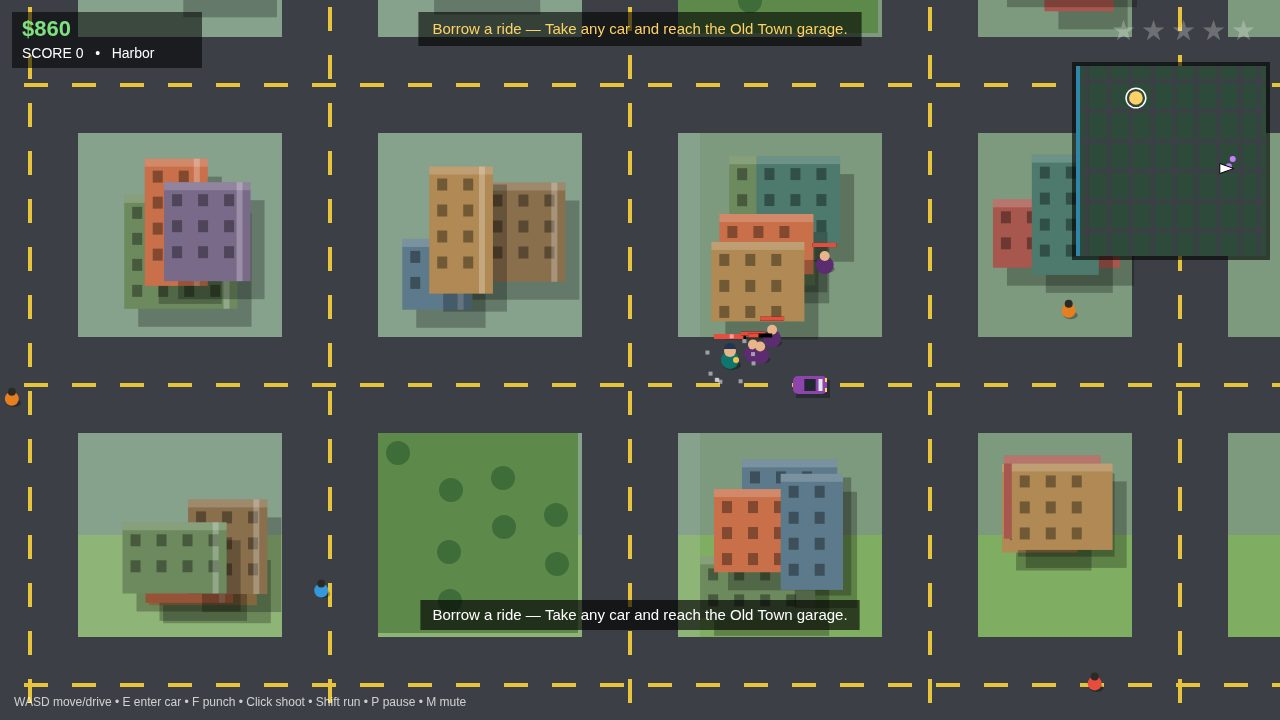
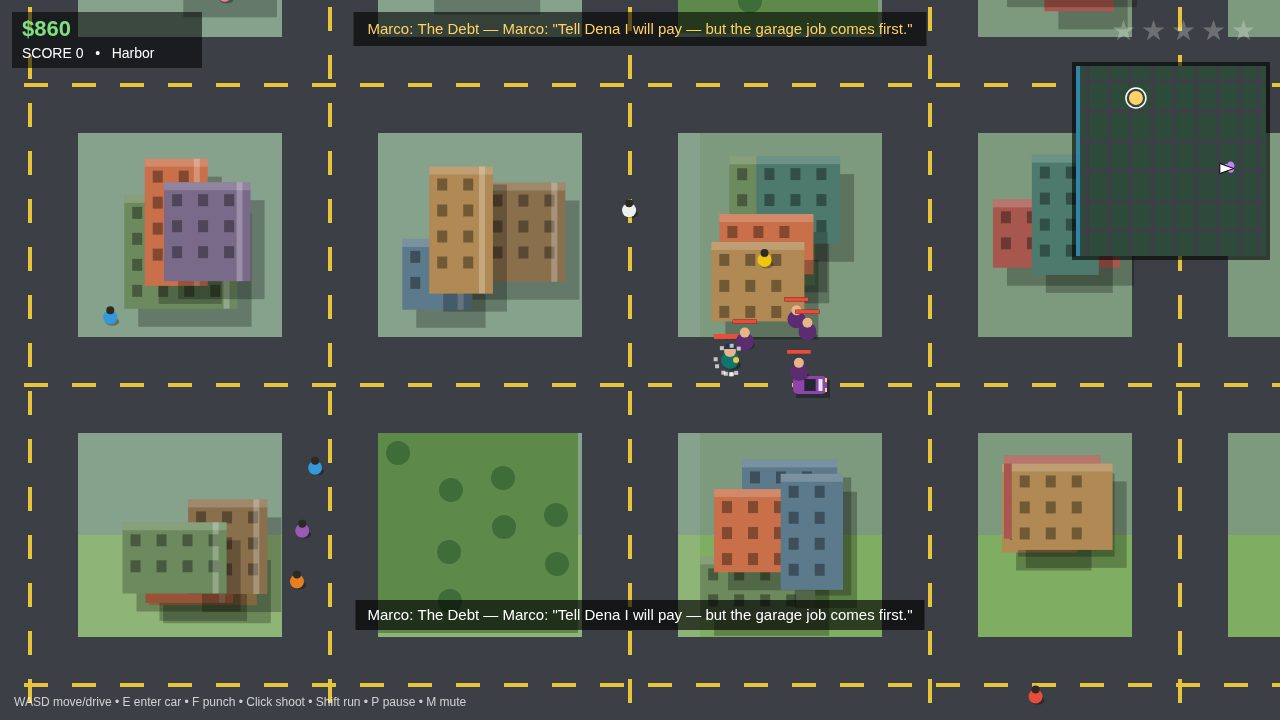
V2 story-mission: default variant story — Rosa/Marco/Dena three-act chain, branching dialog, story cover

diff --git a/game/src/config.js b/game/src/config.js
@@ -6,9 +6,10 @@ export const WORLD_H = 1900;
 export const ROAD = 96; // road width in world pixels
 export const BLOCK = 300; // city block pitch
 
-// Variant is chosen by ?variant=chase|story|heat|golden|sandbox (default chase).
+// Variant is chosen by ?variant=chase|story|heat|golden|sandbox (default story:
+// V2 is the story-mission cut — Rosa, Marco and Dena's three-act chain).
 export function variantFromUrl() {
-  const v = new URLSearchParams(location.search).get('variant') || 'chase';
+  const v = new URLSearchParams(location.search).get('variant') || 'story';
   return ['chase', 'story', 'heat', 'golden', 'sandbox'].includes(v) ? v : 'chase';
 }
 
